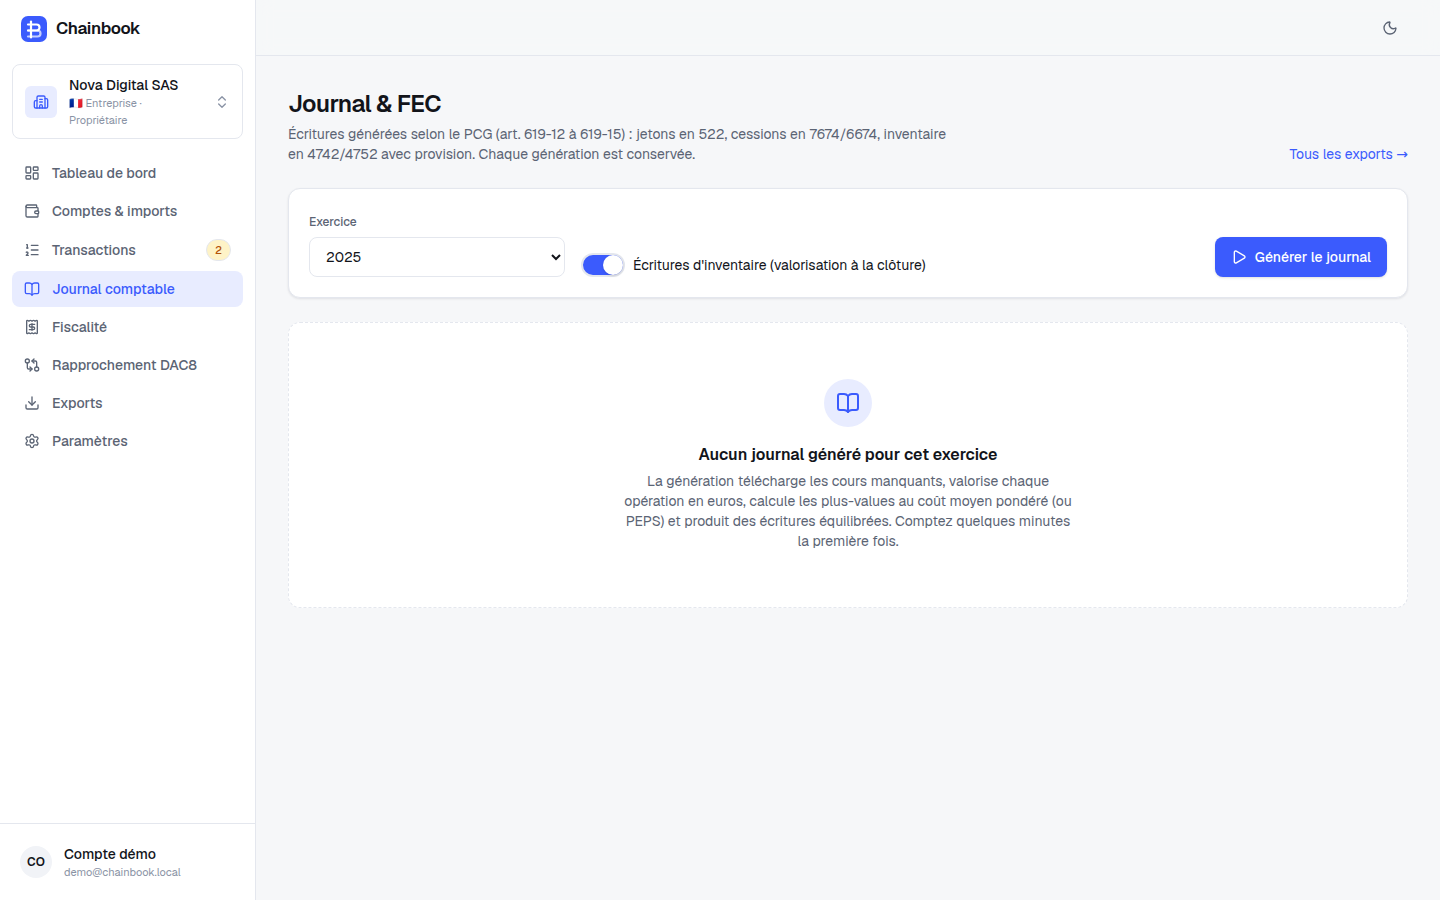
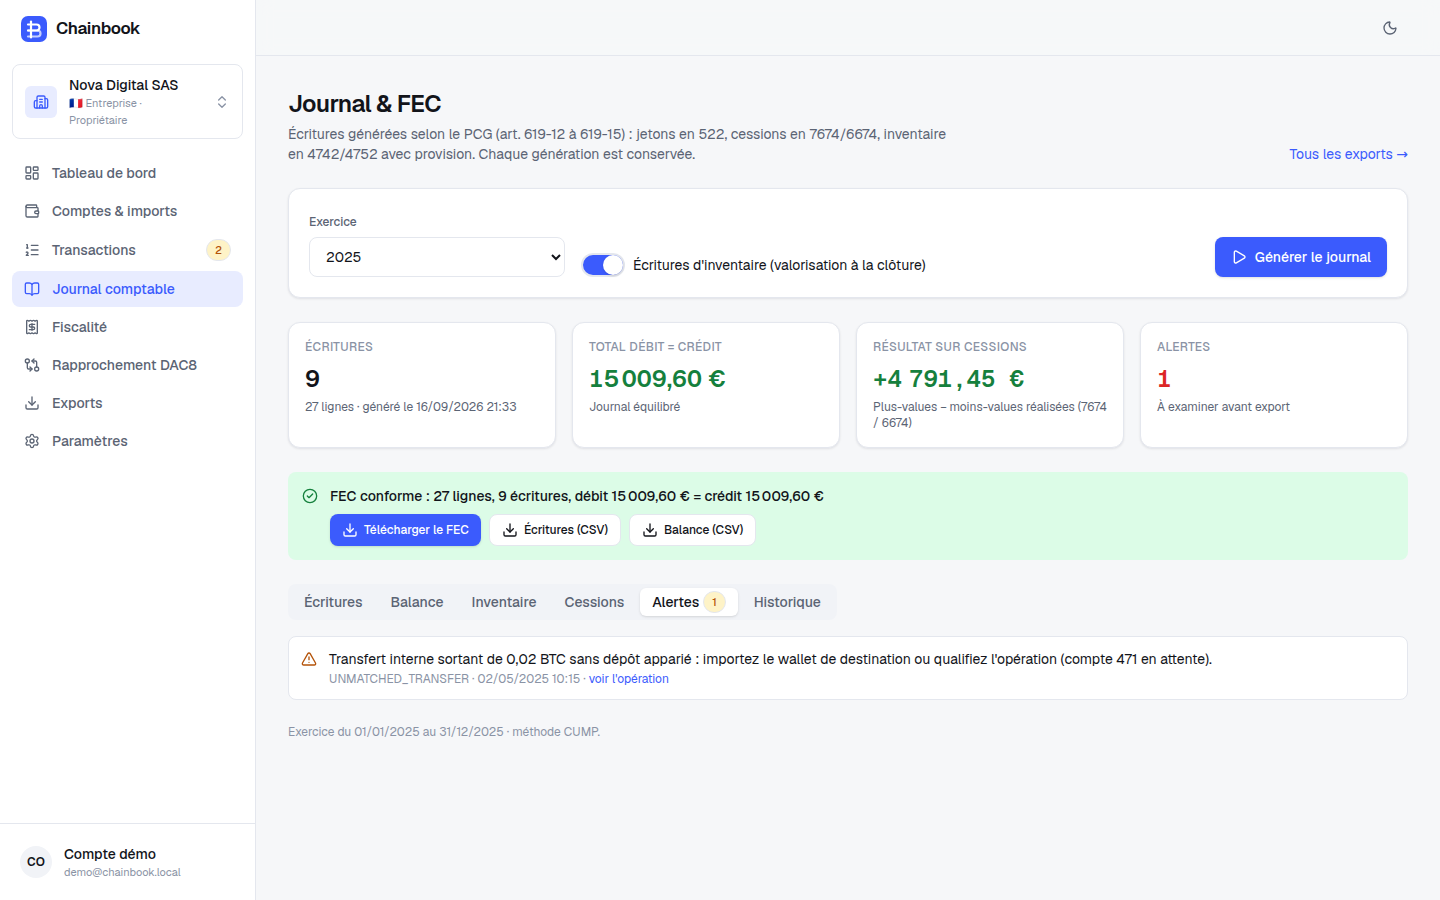
Decompose a compound entry into real DATEV bookings, not clearing lines
DATEV has no compound entry: a booking is one amount, one account, one
contra account. The writer previously routed every line of an entry with
several lines on both sides through a clearing account, which is most
crypto entries — a swap books tokens in, tokens out, a fee and a result —
and produced an import a practice would have to unpick by hand. On the
demo data that was three of nine entries.

The two sides are now walked together, each step booking the smaller of
the two remaining amounts. That splits at most one line in two, uses no
clearing account, and preserves every account's net movement exactly, so
the trial balance after import equals the one before. The German demo file
went from twenty-one lines with three warnings to fifteen with none. The
clearing account survives only for an entry with nothing to pair against,
which is a broken entry and says so.

The screenshots are reproducible again: a new script runs the demo's
journals and tax computations server-side, because driving the buttons
from Playwright was flaky when a job outlives the click, and the embedded
database does not share state between the running server and a script, so
the server is restarted between the two.

The strategy note gains the part the multi-country build makes arguable:
why the DAC8 reconciliation is a bridgehead rather than a feature, why
explainability is what a professional actually buys, and what the position
is worth at a price per file rather than per person.
[…]

diff --git a/src/lib/exports/datev.ts b/src/lib/exports/datev.ts
@@ -1,4 +1,4 @@
-import { cents, ZERO, type Decimal } from "@/lib/engine/money";
+import { cents, Decimal, ZERO } from "@/lib/engine/money";
 import type { JournalEntry, JournalLine } from "@/lib/engine/journal";
 import { zonedParts } from "@/lib/engine/tz";
 import { checkPeriod } from "./period";
@@ -71,18 +71,24 @@ interface Booking {
 /**
  * Turns an n-line entry into DATEV bookings.
  *
- * A two-line entry maps one-to-one. A "one against many" entry pivots on the
- * single line and books every other line against it, which is exactly how an
- * accountant would enter it. An entry with several lines on both sides has no
- * faithful single-line representation, so each line is booked against the
- * clearing account and a warning names the entry: silently inventing a pairing
- * would move real amounts between accounts.
+ * DATEV has no concept of a compound entry: a booking is one amount, one
+ * account, one contra account. A two-line entry maps straight across, and a
+ * "one against many" entry pivots on the single line.
+ *
+ * An entry with several lines on both sides — which a swap booking tokens in,
+ * tokens out, a fee and a result routinely is — has no single-line
+ * representation. Rather than route every line through a clearing account,
+ * which produces an import a practice has to unpick by hand, the two sides are
+ * walked together and each step books the smaller of the two remaining
+ * amounts. That splits at most one line in two and preserves every account's
+ * net movement exactly, which is the property that matters: the trial balance
+ * after import is identical to the one before.
  */
 function toBookings(entry: JournalEntry, clearing: string, warnings: string[]): Booking[] {
   const debits = entry.lines.filter((l) => l.debit.gt(0));
   const credits = entry.lines.filter((l) => l.credit.gt(0));
-  const make = (line: JournalLine, contra: string, sign: "S" | "H"): Booking => ({
-    amount: sign === "S" ? line.debit : line.credit,
+  const make = (line: JournalLine, contra: string, sign: "S" | "H", amount: Decimal): Booking => ({
+    amount,
     sign,
     account: line.account,
     contra,
@@ -93,12 +99,42 @@ function toBookings(entry: JournalEntry, clearing: string, warnings: string[]): 
     currencyAmount: line.currencyAmount,
   });
 
-  if (debits.length === 1 && credits.length === 1) return [make(debits[0], credits[0].account, "S")];
-  if (debits.length === 1 && credits.length > 1) return credits.map((c) => make(c, debits[0].account, "H"));
-  if (credits.length === 1 && debits.length > 1) return debits.map((d) => make(d, credits[0].account, "S"));
+  if (debits.length === 1 && credits.length === 1) return [make(debits[0], credits[0].account, "S", debits[0].debit)];
+  if (debits.length === 1 && credits.length > 1) return credits.map((c) => make(c, debits[0].account, "H", c.credit));
+  if (credits.length === 1 && debits.length > 1) return debits.map((d) => make(d, credits[0].account, "S", d.debit));
 
-  warnings.push(`Écriture ${entry.num} (${entry.label}) : ${debits.length} lignes au débit et ${credits.length} au crédit. DATEV ne connaît pas l'écriture à lignes multiples des deux côtés : chaque ligne est passée contre le compte d'attente ${clearing}, à solder à l'import.`);
-  return [...debits.map((d) => make(d, clearing, "S")), ...credits.map((c) => make(c, clearing, "H"))];
+  if (!debits.length || !credits.length) {
+    warnings.push(`Écriture ${entry.num} (${entry.label}) : aucun contre-compte exploitable, les lignes sont passées contre le compte d'attente ${clearing}.`);
+    return [
+      ...debits.map((d) => make(d, clearing, "S", d.debit)),
+      ...credits.map((c) => make(c, clearing, "H", c.credit)),
+    ];
+  }
+
+  // Walk both sides, booking the smaller remaining amount each time.
+  const out: Booking[] = [];
+  let i = 0;
+  let j = 0;
+  let left = debits[0].debit;
+  let right = credits[0].credit;
+  let guard = 0;
+  while (i < debits.length && j < credits.length && guard++ < 1000) {
+    const amount = Decimal.min(left, right);
+    if (amount.gt(0)) out.push(make(debits[i], credits[j].account, "S", amount));
+    left = left.minus(amount);
+    right = right.minus(amount);
+    if (left.lte(0) && ++i < debits.length) left = debits[i].debit;
+    else if (left.lte(0)) break;
+    if (right.lte(0) && ++j < credits.length) right = credits[j].credit;
+    else if (right.lte(0)) break;
+  }
+
+  const booked = out.reduce((a, b) => a.plus(b.amount), ZERO);
+  const total = debits.reduce((a, l) => a.plus(l.debit), ZERO);
+  if (!booked.eq(total)) {
+    warnings.push(`Écriture ${entry.num} (${entry.label}) : décomposition incomplète (${booked.toFixed(2)} sur ${total.toFixed(2)}). Vérifiez l'équilibre de l'écriture d'origine.`);
+  }
+  return out;
 }
 
 export function exportDatev(input: AuditFileInput): AuditFileOutput {

diff --git a/scripts/demo-compute.ts b/scripts/demo-compute.ts
@@ -1,0 +1,65 @@
+/**
+ * Runs, for the demo data, the computations the screenshots are meant to show:
+ * a journal per company and a tax result per file. Driving the buttons from
+ * Playwright is flaky — a job that takes thirty seconds outlives the click —
+ * so the work is done here and the capture only has to load a page.
+ *   npx tsx scripts/demo-compute.ts
+ */
+import { config } from "dotenv";
+config({ path: ".env.local" });
+config();
+process.env.APP_ENCRYPTION_KEY ??= "demo-encryption-key-change-me-please";
+
+import { eq } from "drizzle-orm";
+import { getDb } from "../src/lib/db";
+import { entities, fiscalYears, users } from "../src/lib/db/schema";
+import { createJob, getJob, spawn } from "../src/lib/dal/jobs";
+import { startJournalRun } from "../src/lib/services/journal";
+import { computeCountryTax } from "../src/lib/services/countrytax";
+import { toWire } from "../src/lib/services/serialize";
+
+const wait = (ms: number) => new Promise((r) => setTimeout(r, ms));
+
+async function settle(entityId: string, jobId: string, label: string) {
+  for (let i = 0; i < 180; i++) {
+    const j = await getJob(entityId, jobId);
+    if (j?.status === "DONE") return j;
+    if (j?.status === "FAILED") { console.log(`   ${label} : échec — ${j.message ?? ""}`); return null; }
+    await wait(1000);
+  }
+  console.log(`   ${label} : toujours en cours après 180 s`);
+  return null;
+}
+
+async function main() {
+  const db = await getDb();
+  const [user] = await db.select().from(users).where(eq(users.email, "demo@chainbook.local"));
+  if (!user) throw new Error("Jeu de démonstration absent : lancez d'abord `npm run seed`.");
+  const rows = await db.select().from(entities).where(eq(entities.createdBy, user.id));
+
+  for (const e of rows) {
+    console.log(`${e.country} ${e.name}`);
+    if (e.kind === "COMPANY") {
+      const fys = await db.select().from(fiscalYears).where(eq(fiscalYears.entityId, e.id));
+      const fy = fys.sort((a, b) => a.endDate.getTime() - b.endDate.getTime()).find((f) => f.endDate.getUTCFullYear() === 2025) ?? fys[0];
+      if (fy) {
+        const job = await startJournalRun(user.id, e.id, fy.id, { withInventory: true });
+        const done = await settle(e.id, job.id, "journal");
+        if (done) console.log(`   journal ${fy.label} : ${(done.result as { entries: number }).entries} écritures`);
+      }
+    }
+    const job = await createJob(e.id, "PRICING", user.id, null, "Calcul de la fiscalité personnelle");
+    spawn(job, async (ctx) => {
+      const { result, missingPrices, draft, notice } = await computeCountryTax(user.id, e.id, { store: true }, (m) => void ctx.log(m));
+      return { ...toWire(result), missingPrices, draft, notice };
+    });
+    const done = await settle(e.id, job.id, "fiscalité");
+    if (done) {
+      const r = done.result as { years?: { year: number; taxableBase: string }[] };
+      const last = r.years?.at(-1);
+      console.log(`   fiscalité : ${r.years?.length ?? 0} année(s)${last ? `, base ${last.year} = ${last.taxableBase}` : ""}`);
+    }
+  }
+}
+
+main().then(() => process.exit(0)).catch((e) => { console.error(e); process.exit(1); });

diff --git a/scripts/verify-auditfiles.ts b/scripts/verify-auditfiles.ts
@@ -1,0 +1,37 @@
+import { config } from "dotenv";
+config({ path: ".env.local" }); config();
+process.env.APP_ENCRYPTION_KEY ??= "demo-encryption-key-change-me-please";
+import { eq } from "drizzle-orm";
+import { getDb } from "../src/lib/db";
+import { entities, fiscalYears, users } from "../src/lib/db/schema";
+import { startJournalRun } from "../src/lib/services/journal";
+import { buildAuditFile } from "../src/lib/services/auditfile";
+import { getJob } from "../src/lib/dal/jobs";
+
+const wait = (ms: number) => new Promise((r) => setTimeout(r, ms));
+
+async function main() {
+  const db = await getDb();
+  const [user] = await db.select().from(users).where(eq(users.email, "demo@chainbook.local"));
+  const rows = await db.select().from(entities).where(eq(entities.createdBy, user.id));
+  for (const e of rows.filter((r) => r.kind === "COMPANY")) {
+    const fys = await db.select().from(fiscalYears).where(eq(fiscalYears.entityId, e.id));
+    const fy = fys.sort((a, b) => a.endDate.getTime() - b.endDate.getTime()).find((f) => f.endDate.getUTCFullYear() === 2025) ?? fys[0];
+    const job = await startJournalRun(user.id, e.id, fy.id, { withInventory: true });
+    for (let i = 0; i < 90; i++) {
+      const j = await getJob(e.id, job.id);
+      if (j?.status === "DONE" || j?.status === "FAILED") break;
+      await wait(1000);
+    }
+    const done = await getJob(e.id, job.id);
+    if (done?.status !== "DONE") { console.log(`${e.country} ${e.name}: journal ${done?.status} ${done?.message ?? ""}`); continue; }
+    const runId = (done.result as { runId: string }).runId;
+    const { output, bytes, defaultFormat } = await buildAuditFile(user.id, e.id, runId);
+    console.log(`${e.country} ${e.name}`);
+    console.log(`   format=${defaultFormat} fichier=${output.fileName} ${bytes.length} octets encodage=${output.encoding}`);
+    console.log(`   ${output.stats.entries} écritures / ${output.stats.lines} lignes · débit ${output.stats.debit.toFixed(2)} crédit ${output.stats.credit.toFixed(2)}`);
+    if (output.warnings.length) for (const w of output.warnings.slice(0, 3)) console.log(`   ⚠ ${w.slice(0, 160)}`);
+    console.log(`   première ligne : ${output.content.split("\n")[0].slice(0, 110)}`);
+  }
+}
+main().then(() => process.exit(0)).catch((e) => { console.error(e); process.exit(1); });

diff --git a/tests/exports/roundtrip.test.ts b/tests/exports/roundtrip.test.ts
@@ -156,14 +156,29 @@ describe("DATEV reads back", () => {
     expect(simple[0]).toMatchObject({ amount: 9000, sign: "S", account: "1300", contra: "1800" });
   });
 
-  it("balances a compound entry across the clearing account it had to use", () => {
+  /**
+   * The compound entry (2 475 + 25 debit against 2 200 + 300 credit) has no
+   * single-line representation. Walking both sides pairs 2 200 and then 275 of
+   * the first debit line, then 25 of the second, using no clearing account at
+   * all. What has to survive is each account's net movement.
+   */
+  it("decomposes a compound entry without inventing a clearing account", () => {
     const compound = bookings.filter((b) => b.piece === "P-E2");
-    expect(compound.length).toBe(4);
-    expect(compound.every((b) => b.contra === "1590")).toBe(true);
-    const debit = compound.filter((b) => b.sign === "S").reduce((a, b) => a + b.amount, 0);
-    const credit = compound.filter((b) => b.sign === "H").reduce((a, b) => a + b.amount, 0);
-    expect(debit.toFixed(2)).toBe(credit.toFixed(2));
-    expect(out.warnings.some((w) => w.includes("E2"))).toBe(true);
+    expect(compound.every((b) => b.contra !== "1590")).toBe(true);
+    expect(out.warnings.some((w) => w.includes("E2"))).toBe(false);
+
+    const net = new Map<string, number>();
+    for (const b of compound) {
+      const signed = b.sign === "S" ? b.amount : -b.amount;
+      net.set(b.account, (net.get(b.account) ?? 0) + signed);
+      net.set(b.contra, (net.get(b.contra) ?? 0) - signed);
+    }
+    // The same movements as the original entry, account by account.
+    expect(net.get("1800")).toBeCloseTo(2475, 2);
+    expect(net.get("6905")).toBeCloseTo(25, 2);
+    expect(net.get("1300")).toBeCloseTo(-2200, 2);
+    expect(net.get("4905")).toBeCloseTo(-300, 2);
+    expect([...net.values()].reduce((a, b) => a + b, 0)).toBeCloseTo(0, 2);
   });
 
   it("declares the period on the calendar that built it", () => {

diff --git a/scripts/screenshots.ts b/scripts/screenshots.ts
@@ -33,17 +33,13 @@ async function main() {
   // A computed result, because an empty tax page shows none of the point of
   // the product: the trace under each figure.
   await page.goto(`${BASE}/app/${entityId}/tax`); await page.waitForLoadState("networkidle");
-  const alreadyComputed = await page.locator("text=Comment ce montant est obtenu").count();
-  if (!alreadyComputed) {
-    // The button says "Calculer" the first time and "Recalculer" afterwards;
-    // it is replaced while the job runs, so a detached element is expected.
-    await page.locator("button", { hasText: /^Calculer$|^Recalculer$/ }).first().click().catch(() => {});
-    await page.waitForSelector("text=Comment ce montant est obtenu", { timeout: 120000 }).catch(() => {});
-    await page.waitForTimeout(2500);
-    await page.reload(); await page.waitForLoadState("networkidle"); await page.waitForTimeout(800);
-  }
+  // `scripts/demo-compute.ts` runs the calculations beforehand, so the page
+  // only has to load. Driving the button from here was flaky: a job that takes
+  // half a minute outlives the click.
+  const computed = await page.locator("text=Comment ce montant est obtenu").count();
+  if (!computed) console.warn("tax page has no stored result — run `npx tsx scripts/demo-compute.ts` first");
   await page.screenshot({ path: `${OUT}/07-tax.png`, fullPage: true });
-  console.log("captured tax with result");
+  console.log(`captured tax${computed ? " with result" : " (empty)"}`);
 
   // The practice cockpit and the country picker are not entity pages.
   await page.goto(`${BASE}/app/clients`); await page.waitForLoadState("networkidle"); await page.waitForTimeout(400);

diff --git a/tests/exports/auditfiles.test.ts b/tests/exports/auditfiles.test.ts
@@ -71,8 +71,28 @@ describe("DATEV EXTF Buchungsstapel", () => {
     expect(line!).toContain(";1503;"); // 15 March
   });
 
-  it("books a compound entry against the clearing account and says so", () => {
-    expect(out.warnings.some((w) => w.includes("BIN000002"))).toBe(true);
+  it("decomposes a compound entry without inventing a clearing account", () => {
+    // The file ends with a line break, so the split leaves a trailing blank.
+    const cells = rows.slice(2).filter((r) => r.trim() !== "").map((r) => r.split(";"));
+    expect(cells.length).toBeGreaterThan(1);
+    expect(cells.every((c) => c[7].replace(/"/g, "") !== "1590")).toBe(true);
+    expect(out.warnings.some((w) => w.includes("BIN000002"))).toBe(false);
+
+    // Every account ends with the movement the original entries gave it.
+    const net = new Map<string, number>();
+    for (const c of cells) {
+      const amount = Number(c[0].replace(",", "."));
+      const signed = c[1].replace(/"/g, "") === "S" ? amount : -amount;
+      const account = c[6].replace(/"/g, "");
+      const contra = c[7].replace(/"/g, "");
+      net.set(account, (net.get(account) ?? 0) + signed);
+      net.set(contra, (net.get(contra) ?? 0) - signed);
+    }
+    expect(net.get("1300")).toBeCloseTo(9000 - 2200, 2);
+    expect(net.get("1800")).toBeCloseTo(-9000 + 2475, 2);
+    expect(net.get("6905")).toBeCloseTo(25, 2);
+    expect(net.get("4905")).toBeCloseTo(-300, 2);
+    expect([...net.values()].reduce((a, b) => a + b, 0)).toBeCloseTo(0, 2);
   });
 
   it("encodes the euro sign as Windows-1252 and not as Latin-1", () => {

diff --git a/docs/STRATEGIE_CONCURRENTIELLE.md b/docs/STRATEGIE_CONCURRENTIELLE.md
@@ -57,3 +57,36 @@ Pourquoi c'est un espace libre : Waltio/Koinly/Blockpit visent le particulier et
 | Concurrent qui ajoute le FEC | Avancer sur la profondeur comptable (inventaire, à-nouveaux, lettrage, export natif logiciels) et le canal cabinet |
 | Volume faible de sociétés crypto | Le particulier finance l'acquisition ; la société et le cabinet font la marge |
 | Réglementation mouvante (MiCA, DAC8, loi de finances) | Veille trimestrielle, moteur paramétrable par année fiscale, changelog réglementaire publié |
+
+---
+
+## 7. Mise à jour du 16 septembre 2026 — la position que la version multipays permet de tenir
+
+La feuille de route plaçait le multipays et le rapprochement DAC8 en défense, à 9-18 mois. Ils sont faits. Cela change la nature de l'avantage : il ne s'agit plus d'avoir une fonction de plus, mais d'occuper une position que les concurrents ne peuvent pas copier vite, parce qu'elle coûte un an de travail réglementaire avant la première ligne de code utile.
+
+### Ce qui est réellement défendable
+
+**1. Le rapprochement DAC8 comme tête de pont.** À partir de 2027, chaque contribuable européen recevra, en même temps que l'administration, un relevé de son prestataire. La question que tout le monde se posera n'est pas « combien dois-je déclarer » mais « pourquoi mon chiffre diffère de celui que l'administration a déjà ». Aucun concurrent ne répond à cette question aujourd'hui. Y répondre suppose trois choses que nous avons : les huit agrégats du schéma CARF recalculés depuis les livres, la lecture des relevés dans les formats réels, et l'explication de chaque écart en français comptable.
+
+Le détail qui fait la différence : la directive demande des montants **bruts**, le schéma XML de l'OCDE des montants **nets de frais**. Les prestataires suivront le schéma. Un outil qui ne connaît qu'une lecture affichera un écart sur chaque ligne et enverra le cabinet chercher une erreur qui n'existe pas. Nous chiffrons l'écart comme étant exactement les frais et le classons en écart mineur. C'est le genre de détail qui se voit en démonstration.
+
+**2. L'explicabilité comme réponse à la responsabilité.** Un expert-comptable engage sa responsabilité sur un chiffre qu'il signe. La question qu'il pose à un outil n'est pas « quel est le montant » mais « d'où vient-il ». Chaque montant se déplie ici jusqu'à l'opération et à l'article, et ce détail est stocké avec le calcul : il reste disponible trois ans plus tard, sans recalculer, sans que les cours aient bougé. C'est la différence entre un assistant fiscal et un outil de cabinet.
+
+**3. Douze juridictions sur un seul modèle.** Waltio couvre la France et quelques pays voisins, Blockpit l'Allemagne et l'Autriche, Koinly large mais superficiel sur la comptabilité, Cryptio la comptabilité d'entreprise sans la fiscalité personnelle. Personne ne tient à la fois le journal comptable au plan de comptes local, le fichier d'audit attendu, et l'impôt personnel sous les règles réelles, dans douze pays. Le coût d'entrée n'est pas technique, il est réglementaire : il faut lire les textes, et la plupart des pièges ne se voient qu'en les lisant (la renumérotation portugaise de mai 2026, la franchise-couperet allemande, le coût nul du staking autrichien, la date de référence néerlandaise qui est l'ouverture du 1er janvier).
+
+**4. Le cabinet comme canal, et non comme utilisateur final.** Un cabinet ne veut pas douze abonnements : il veut une liste de clients, un état d'avancement et une échéance. C'est ce que produit le portefeuille clients. Le modèle de distribution suit : le cabinet paie au dossier, revend la prestation, et l'outil ne fait jamais de « tenue de comptabilité », ce qui le maintient hors du monopole de l'article 2 de l'ordonnance de 1945.
+
+### Ce qui reste à faire pour tenir la position
+
+| Priorité | Action | Pourquoi maintenant |
+| --- | --- | --- |
+| 1 | **Faire relire les douze packs** par un confrère de chaque pays, et publier le statut | C'est le seul point qui bloque une vente. Tant qu'un pack est en DRAFT, un cabinet sérieux ne signera pas |
+| 2 | **Assurance RC professionnelle éditeur** couvrant l'erreur de calcul | La contrepartie commerciale de l'explicabilité : nous montrons le raisonnement, donc nous l'assumons |
+| 3 | **Exports natifs** vers Pennylane, Cegid, ACD, DATEV, BMD, Exact, Sage | Le CSV ouvre la porte, l'export natif garde le client |
+| 4 | **Certification portugaise** du logiciel auprès de l'Autoridade Tributária | Sans elle, le SAF-T produit porte un numéro de remplacement et ne sert qu'en interne |
+| 5 | **Veille réglementaire publiée**, avec un changelog daté par pays | Un cabinet achète autant la veille que le calcul. C'est aussi ce qui rend le produit difficile à quitter |
+| 6 | **DeFi et NFT** | Le seul trou fonctionnel qui reste face à Koinly et Blockpit |
+
+### Le prix que cette position permet
+
+Un assistant fiscal grand public se vend 50 à 300 € par an et par personne. Un outil de cabinet se vend au dossier, entre 150 et 600 € par dossier et par exercice selon le volume, avec un abonnement de cabinet au-dessus. La différence tient à une seule chose : qui porte la responsabilité. Un outil qui produit un chiffre sans raisonnement se vend au particulier ; un outil qui produit un raisonnement opposable se vend au professionnel qui le signe.

diff --git a/README.md b/README.md
@@ -47,6 +47,8 @@ Les douze packs portent le statut **DRAFT** : ils sont écrits à partir des tex
 | --- | --- |
 | ![Tableau de bord](docs/screenshots/03-dashboard.png) | ![Journal](docs/screenshots/06-journal.png) |
 
+Les captures se reproduisent avec `npm run seed`, puis `npm run demo` (qui lance les calculs), puis `npx tsx scripts/screenshots.ts`.
+
 Le fichier [`docs/demo-FEC-2025.txt`](docs/demo-FEC-2025.txt) est le FEC produit sur les données de démonstration (exercice 2025 de la société fictive « Nova Digital SAS », SIREN fictif).
 
 ## Pile technique
